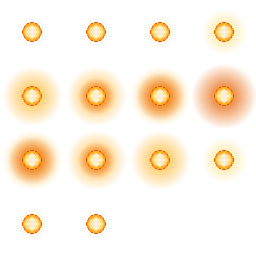
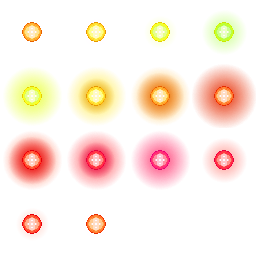
Added an AT-ST and pretty suns.
I don't know what magic Julia used to fix the intervals for firing so
that's off.

diff --git a/src/units/projectiles.js b/src/units/projectiles.js
@@ -33,7 +33,6 @@ Projectile.prototype.setBoundaries = function (left, right) {
     Unit.prototype.setBoundaries.call(this, left, right);
 };
 
-// Luke Projectile
 function FlashProjectile(game, x, y) {
     var bulletImage = new SpriteImage(ASSET_MANAGER.getAsset("./assets/img/ally/projectile.png"),
         0,0,24,64);
@@ -49,6 +48,24 @@ FlashProjectile.prototype.draw = function (ctx) {
 };
 
 FlashProjectile.prototype.setBoundaries = function () {
+    Projectile.prototype.setBoundaries.call(this, this.x + 24, this.x + 28);
+};
+
+function ATSTProjectile(game, x, y) {
+    var bulletImage = new SpriteImage(ASSET_MANAGER.getAsset("./assets/img/ally/atstprojectile.png"),
+        0,0,24,64);
+    Projectile.call(this, game, x+44, y, 30, 70, bulletImage);
+}
+
+ATSTProjectile.prototype = new Projectile();
+ATSTProjectile.prototype.constructor = ATSTProjectile;
+
+ATSTProjectile.prototype.draw = function (ctx) {
+    this.animation.drawImage(ctx, this.x, this.y);
+    Entity.prototype.draw.call(this, ctx);
+};
+
+ATSTProjectile.prototype.setBoundaries = function () {
     Projectile.prototype.setBoundaries.call(this, this.x + 24, this.x + 28);
 };
 

diff --git a/src/units/allies.js b/src/units/allies.js
@@ -43,6 +43,7 @@ Ally.prototype.update = function () {
 
 Ally.prototype.draw = function (ctx) {
     var isDrawn = false;
+    //why?...
     if (this.attacking && this.attackAnim) {
         isDrawn = this.attackAnim.drawFrame(this.game.game.clockTick, ctx, this.x, this.y);
     }
@@ -109,3 +110,17 @@ TieFighter.prototype.constructor = TieFighter;
 TieFighter.prototype.setBoundaries = function () {
     Ally.prototype.setBoundaries.call(this, this.x + 32, this.x + 64, this.x + 32, this.x + 64);
 };
+
+function ATST(game, x, y, col, row, attackCallback) {
+  var pic = ASSET_MANAGER.getAsset("./assets/img/ally/atst.png");
+  var idleAnim = new Animation(pic, 0, 0, 64, 96, .5, 6, true, true, false, null, false, 0, -32);
+  var attackAnim = new Animation(pic, 0, 96, 64, 96, .3, 12, true, false, false, null, false, 0, -32);
+  Ally.call(this, game, x, y, col, row, 50, idleAnim, attackAnim, attackCallback, ATSTProjectile, 7, true, true);
+}
+
+ATST.prototype = new Ally();
+ATST.prototype.constructor = ATST;
+
+ATST.prototype.setBoundaries = function() {
+  Ally.prototype.setBoundaries.call(this, this.x+32, this.x + 64, this.x + 32, this.x + 64);
+}

diff --git a/src/main.js b/src/main.js
@@ -22,6 +22,7 @@ ASSET_MANAGER.queueDownload("./assets/img/menubattery.png");
 ASSET_MANAGER.queueDownload("./assets/img/menutie.png");
 ASSET_MANAGER.queueDownload("./assets/img/menushovel.png");
 ASSET_MANAGER.queueDownload("./assets/img/menustormtrooper.png");
+ASSET_MANAGER.queueDownload("./assets/img/menuatst.png");
 
 ASSET_MANAGER.queueDownload("./assets/img/ally/battery.png");
 ASSET_MANAGER.queueDownload("./assets/img/ally/stormt.png");
@@ -30,6 +31,8 @@ ASSET_MANAGER.queueDownload("./assets/img/ally/lightning.png");
 ASSET_MANAGER.queueDownload("./assets/img/expl.png");
 ASSET_MANAGER.queueDownload("./assets/img/ally/sun.png");
 ASSET_MANAGER.queueDownload("./assets/img/ally/projectile.png");
+ASSET_MANAGER.queueDownload("./assets/img/ally/atst.png");
+ASSET_MANAGER.queueDownload("./assets/img/ally/atstprojectile.png");
 
 //Audio
 ASSET_MANAGER.queueDownload("./assets/audio/bomb.mp3");

diff --git a/src/menu.js b/src/menu.js
@@ -152,8 +152,10 @@ function Menu(game, x, y) {
         Battery);
     this.addItem(game, "Fighter", 75, ASSET_MANAGER.getAsset("./assets/img/menutie.png"),
         TieFighter);
-    this.addItem(game, "Trooper", 75, ASSET_MANAGER.getAsset("./assets/img/menustormtrooper.png"),
+    this.addItem(game, "Trooper", 50, ASSET_MANAGER.getAsset("./assets/img/menustormtrooper.png"),
         Stormtrooper);
+    this.addItem(game, "AT-ST", 25, ASSET_MANAGER.getAsset("./assets/img/menuatst.png"),
+        ATST);
 }
 
 Menu.prototype = new Entity();
